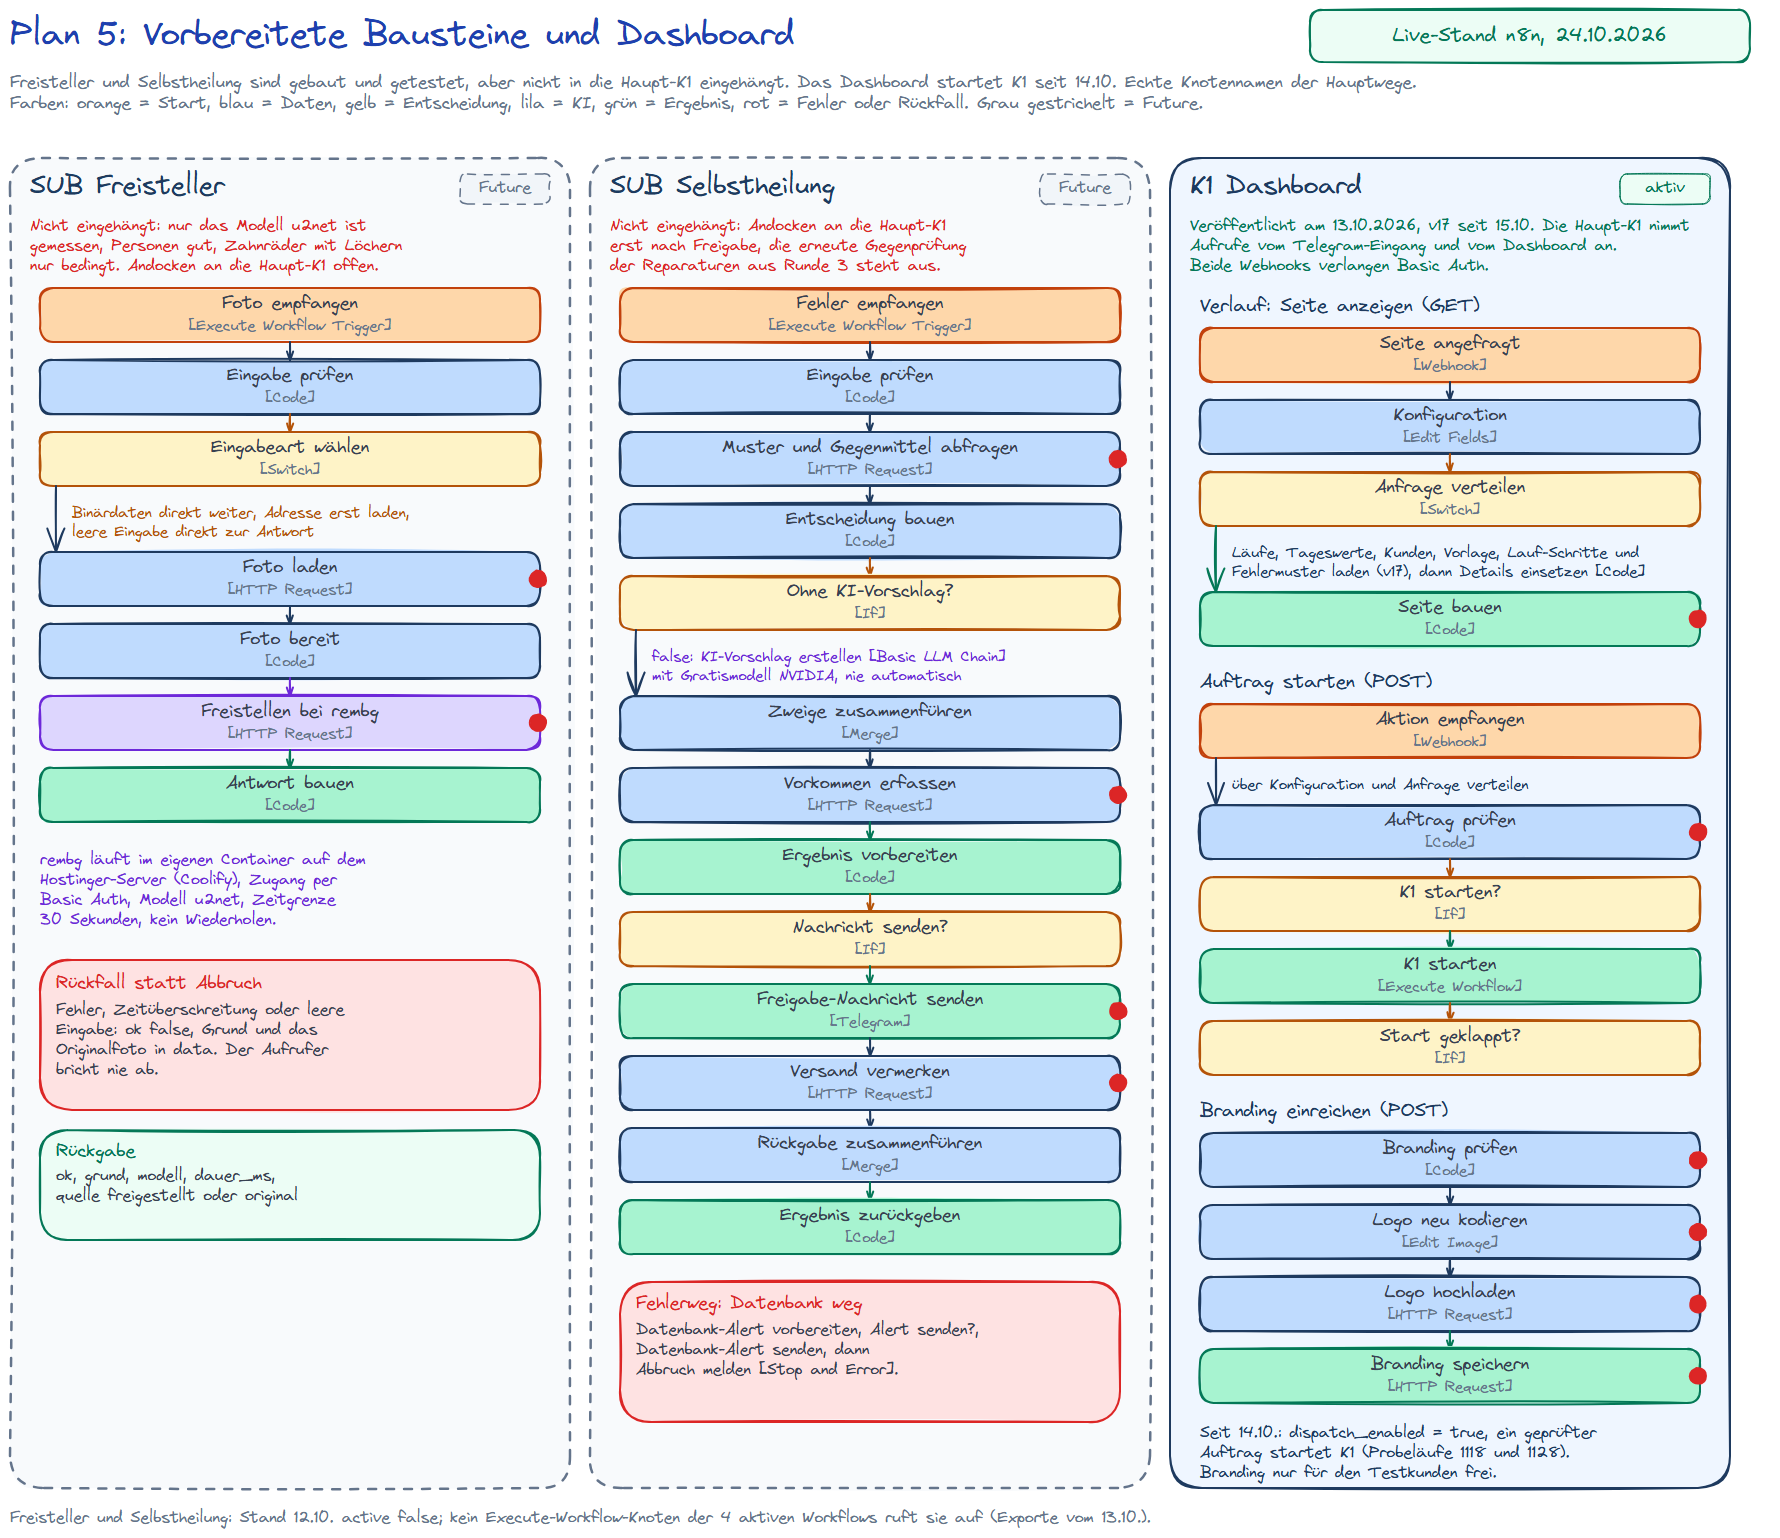
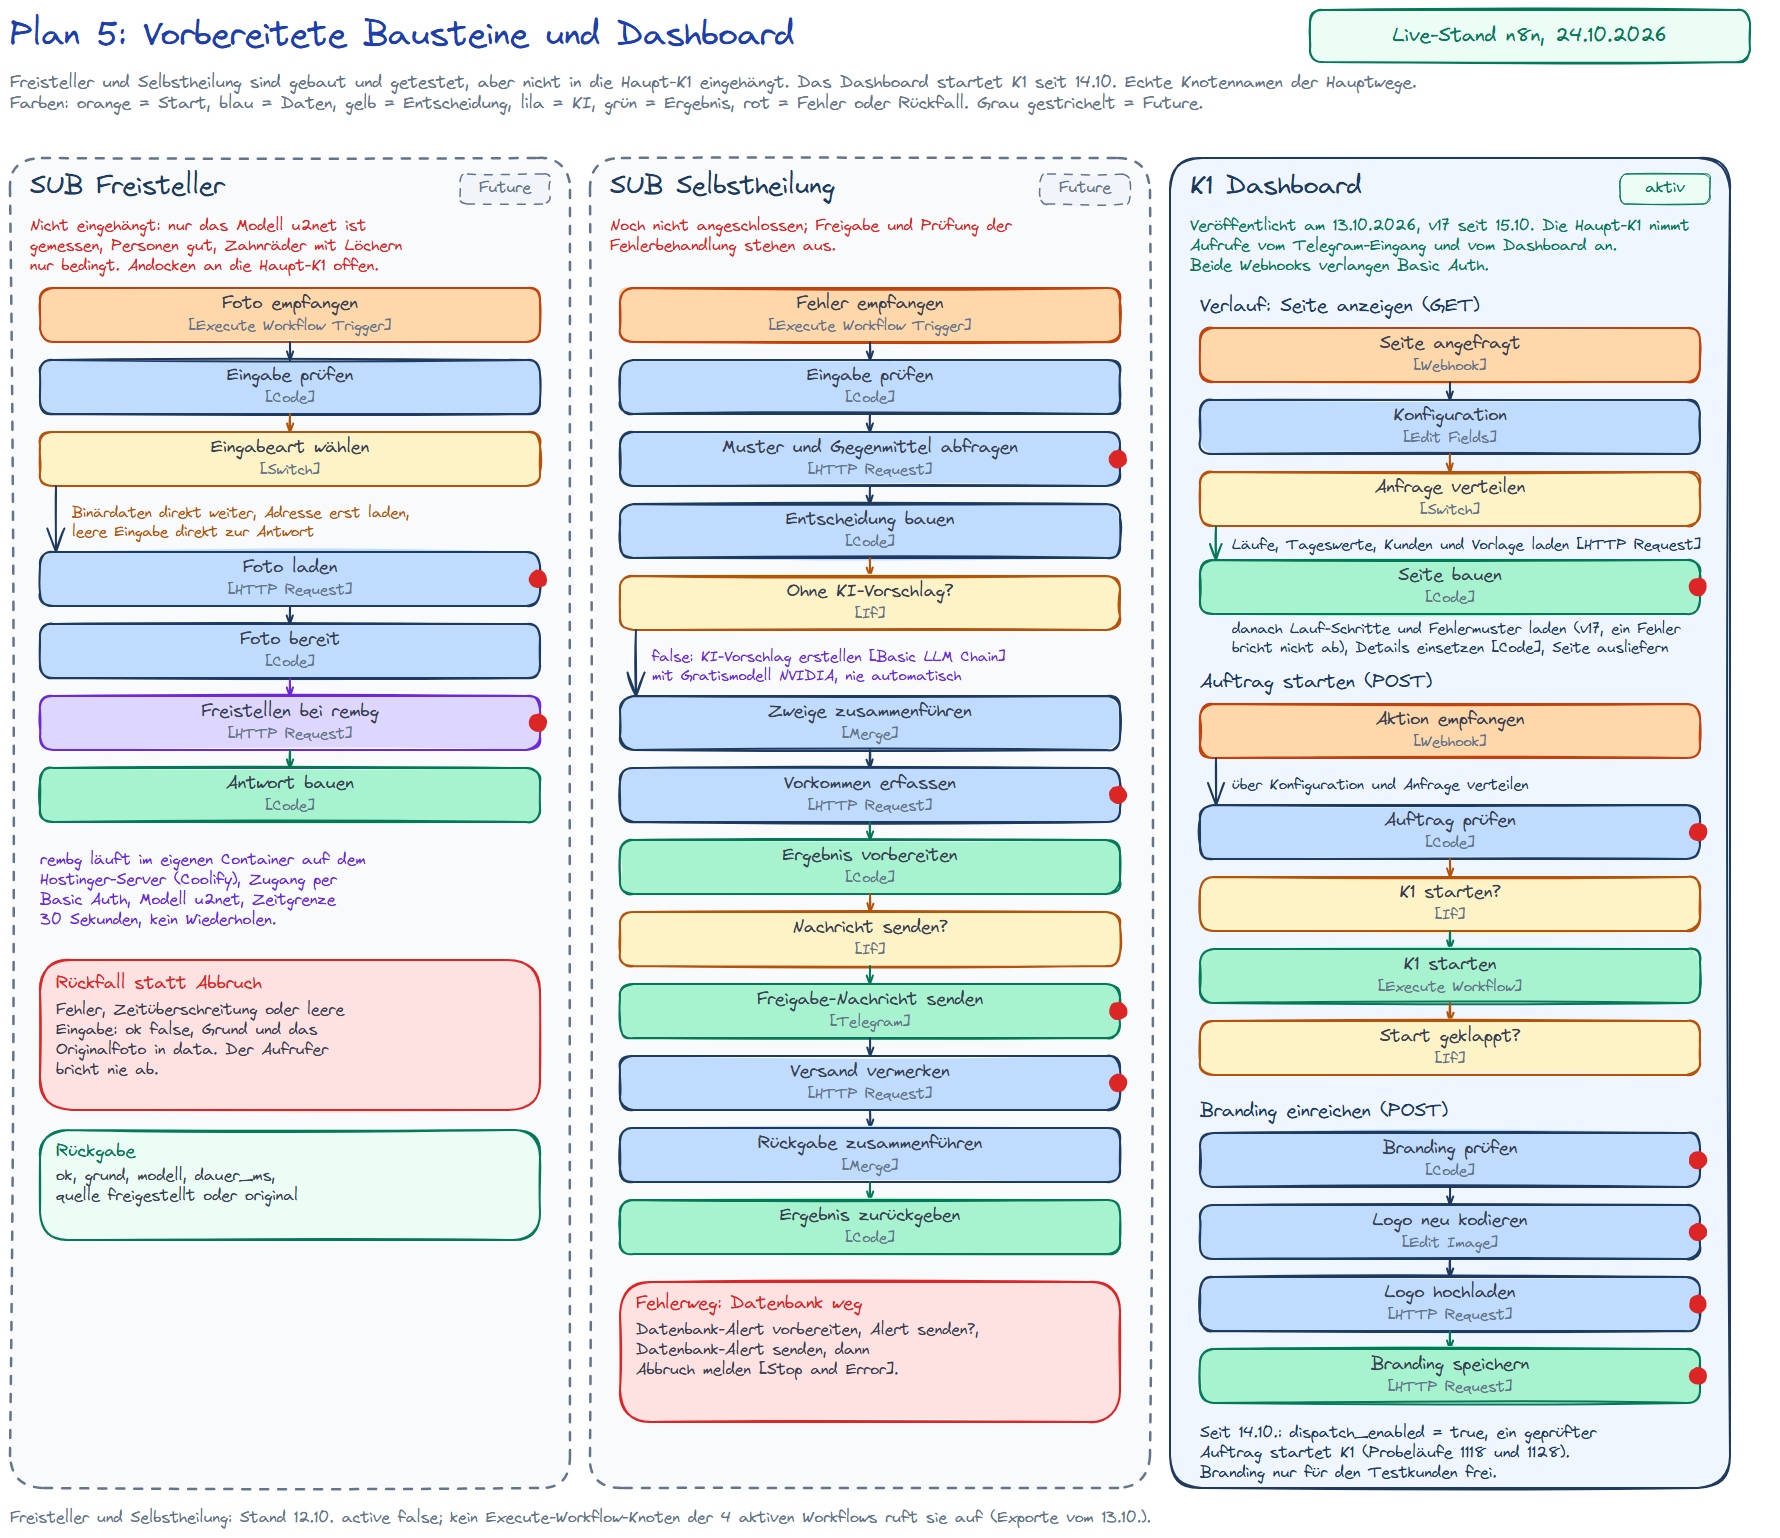
V97 Nachbesserung: Plan 5 in Export-Reihenfolge, Fallback beim Einzelbild genau beschrieben
Plan 5: Lauf-Schritte und Fehlermuster laden folgen auf Seite bauen.
Anleitung 6a, 6e, 6g berichtigt (Einzelbild-Fallback, 4 von 4, v24 veroeffentlicht, Satzbau).

Changed region(s): [[0.6489, 0.3433, 0.9579, 0.4369], [0.3399, 0.1248, 0.5562, 0.1873]]

diff --git a/docs/anleitung/index.html b/docs/anleitung/index.html
@@ -1265,7 +1265,7 @@ figure.foto.codebild.voll img { width: 100%; }
 
   <h3>Layout 4: Karussell nach festem Muster</h3>
   <p>Layout 4 arbeitet mit Übergängen über die Folienkante: Ein Foto, eine Linie und eine Treppe laufen von einer Folie in die nächste, damit das Karussell beim Wischen wie ein Band wirkt. Technisch wird eine breite Leinwand mit allen Folien einmal gebaut, Gotenberg gibt jeden Ausschnitt als eigenes PNG mit 1080 x 1350 aus. Ein Bild über die Kante trägt so auf beiden Seiten dieselben Pixel.</p>
-  <p>Der erste Einbau würfelte bis zu 5 Aufbauten und prüfte sie. In T1 fand er nach 80 Versuchen keinen gültigen Plan, die Vorschau kam im alten Layout (Lauf 905). Seit dem 12.10. baut <code>Layout 4 würfeln [Code]</code> jeden Plan fest nach dem abgenommenen Muster v2: Titel mit gerahmtem Foto über der Kante, Einleitung, Schritte, eine Folie „Jetzt speichern“ mit Grundwechsel, die restlichen Schritte, „Auf einen Blick“ und ein Abschluss mit Kundenlogo und einer Frage. 3 bis 5 Schritte ergeben 8 bis 10 Folien. Liefert das Modell mehr als 5 Schritte, bekommen nur 5 davon eine eigene Folie: Der Text von Schritt 5 wird auf 110 Zeichen gekürzt, von den übrigen Schritten werden nur die Überschriften angehängt („Dazu: …“), ihr Text fehlt auf den Folien. Das ist im Live-Stand vom 24.10.2026 unverändert und gilt als bekannte Grenze. Der Aufbau und die Details gehören zum Layout, Farben, Schrift und Logo kommen aus dem <code>branding_pack</code>. Seit dem 17. bis 19.10.2026 sehen Folie 1, Folie 2 und die Schlussfolie anders aus als hier beschrieben: Folie 1 trägt einen kurzen Aufhänger wie ein Vorschaubild (Fix 5b und 5d), Folie 2 eine eigene Einleitung (Fix 27b), die Schlussfolie eine Frage zum Thema (Fix 28). Einzelheiten unten.</p>
+  <p>Der erste Einbau würfelte bis zu 5 Aufbauten und prüfte sie. In T1 fand er nach 80 Versuchen keinen gültigen Plan, die Vorschau kam im alten Layout (Lauf 905). Seit dem 12.10. baut <code>Layout 4 würfeln [Code]</code> jeden Plan fest nach dem abgenommenen Muster v2: Titel mit gerahmtem Foto über der Kante, Einleitung, Schritte, eine Folie „Jetzt speichern“ mit Grundwechsel, die restlichen Schritte, „Auf einen Blick“ und ein Abschluss mit Kundenlogo und einer Frage. 3 bis 5 Schritte ergeben 8 bis 10 Folien. Liefert das Modell mehr als 5 Schritte, bekommen nur 5 davon eine eigene Folie: Der Text von Schritt 5 wird auf 110 Zeichen gekürzt, von den übrigen Schritten werden nur die Überschriften angehängt („Dazu: …“), ihr Text fehlt auf den Folien. Das ist im Live-Stand vom 24.10.2026 unverändert und gilt als bekannte Grenze. Der Aufbau und die Details gehören zum Layout, Farben, Schrift und Logo kommen aus dem <code>branding_pack</code>. Seit den Änderungen vom 17. bis 19.10.2026 sehen Folie 1, Folie 2 und die Schlussfolie anders aus als hier beschrieben: Folie 1 trägt einen kurzen Aufhänger wie ein Vorschaubild (Fix 5b und 5d), Folie 2 eine eigene Einleitung (Fix 27b), die Schlussfolie eine Frage zum Thema (Fix 28). Einzelheiten unten.</p>
   <ol class="schritte">
     <li><strong><code>Layout 4 prüfen [HTTP Request]</code></strong> rendert bis zu 3 Kandidaten mit gleichem Aufbau und strengeren Textgrenzen im Prüfmodus; <code>Layout 4 Plan wählen [Code]</code> nimmt den ersten ohne Überlauf.</li>
     <li><strong><code>Layout 4 rendern [HTTP Request]</code></strong> erzeugt die Folien, <code>Layout 4 Ergebnis prüfen [Code]</code> kontrolliert Zahl und Größe jedes Bilds.</li>
@@ -1407,7 +1407,7 @@ figure.foto.codebild.voll img { width: 100%; }
     <li><strong><code>Render-Liste bauen [Code]</code></strong> nimmt die Erklärung nur noch aus diesem Feld, nie mehr aus dem Folientext.</li>
     <li><strong><code>Konfiguration und Startzeit [Edit Fields]</code></strong>: <code>prompt_version</code> von <code>k1-p4</code> auf <code>k1-p5</code>.</li>
   </ol>
-  <p><strong>Probelauf 1200</strong> (22.10.2026, Kunde Ordwin, Thema „Angebote mit n8n in 4 Schritten automatisieren“): Status erfolgreich, in Telegram freigegeben, Ersatzmodell nicht gebraucht. Das Modell lieferte 4 von 4 Erklärungen, alle wurden übernommen, jede Station im LinkedIn-Bild trägt ihre Erklärung. Die Länge lag bei 46 bis 62 Zeichen, Regel 16a nennt 45; 3 von 4 lagen darüber, das Bild passte trotzdem ohne Kürzung oder Überlappung.</p>
+  <p><strong>Probelauf 1200</strong> (22.10.2026, Kunde Ordwin, Thema „Angebote mit n8n in 4 Schritten automatisieren“): Status erfolgreich, in Telegram freigegeben, Ersatzmodell nicht gebraucht. Das Modell lieferte 4 von 4 Erklärungen, alle wurden übernommen, jede Station im LinkedIn-Bild trägt ihre Erklärung. Die Länge lag bei 46 bis 62 Zeichen, Regel 16a nennt 45; 4 von 4 lagen darüber (62, 46, 53 und 57 Zeichen), das Bild passte trotzdem ohne Kürzung oder Überlappung.</p>
   <figure class="foto schmal">
     <img src="bilder/v5d-1200-linkedin.png" alt="LinkedIn-Bild aus Lauf 1200 auf dunkelgrünem Grund: Marke Ordwin, Abzeichen In 4 Schritten, Titel Automatisiere Angebote mit n8n in 4 Schritten; Pipeline mit 4 Stationen, jede mit Überschrift und einem ganzen Erklärungssatz, zum Beispiel Visuals werden automatisch generiert und eingebunden; unten Merke-Leiste">
     <figcaption>Abbildung 6a-21: Das LinkedIn-Bild aus Lauf 1200 nach Fix 5g. Jede der 4 Stationen trägt einen ganzen Satz vom Modell, Station 3 lautet jetzt „Visuals werden automatisch generiert und eingebunden.“</figcaption>
@@ -1429,6 +1429,7 @@ figure.foto.codebild.voll img { width: 100%; }
       <tr><td><code>Einzelbild erzeugen [HTTP Request]</code></td><td>Fallback: liefert FLUX nach 3 Versuchen kein Bild oder fehlt die Konto-ID, wird das Einzelbild ein Farbverlauf mit Logo (F4).</td></tr>
     </table>
   </div>
+  <p><strong>Was bei <code>Einzelbild erzeugen</code> tatsächlich passiert</strong> (gelesen im Export K1 v25, Ablauf seither unverändert): Die Notiz im Canvas fasst den Weg verkürzt zusammen. Der Knoten läuft nur, wenn Pixabay kein passendes Foto liefert und eine Konto-ID eingetragen ist. Liefert FLUX ein Bild, steht es groß auf Folie 1. Liefert FLUX nach 3 Versuchen keins oder fehlt die Konto-ID, bekommt Folie 1 stattdessen ein großes Symbol zum Thema (<code>Layout 4 würfeln [Code]</code>), und der Lauf vermerkt F4 im Bildhinweis. Das LinkedIn-Bild hängt davon nicht ab: <code>Render-Liste bauen [Code]</code> baut es als eigene Grafik, als Ablauf, Checkliste oder Zahl. Erst wenn keine dieser Vorlagen passt, greift sein eigener Rückfall, ein Farbverlauf aus den Kundenfarben mit Titel und Logo.</p>
   <figure class="foto breit">
     <img src="bilder/v5d-karte4-fallback.png" alt="Gesamtansicht der Hauptversion K1 im n8n-Editor, Dunkelmodus, Status Published; rot umrahmt die Notizkarte von Phase 04 Gestalten und der Bereich der Phase 03 KI mit den Knoten, die eine Fallback-Notiz tragen">
     <figcaption>Abbildung 6a-22: K1 nach den Notizänderungen vom 24.10.2026 (<code>80d0c810</code>). Rot umrahmt Karte ④ in Phase 04 und Phase 03 KI mit den Fallback-Notizen.</figcaption>
@@ -1856,7 +1857,7 @@ figure.foto.codebild.voll img { width: 100%; }
 
   <h3>Zeitgrenze des Schreibmodells: 120 auf 30 Sekunden (Entwurf)</h3>
   <p>In Lauf 1139 brauchte <code>Content-Paket schreiben [HTTP Request]</code> 125,3 Sekunden statt rund 7 Sekunden in Lauf 1135. Die Rechnung passt auf einen Hänger beim Anbieter: Zeitgrenze 120 s für den ersten Versuch, 2 s Pause, rund 3 s für den zweiten Versuch, der ein normales Ergebnis lieferte. n8n speichert die einzelnen Versuche nicht, der erste Hänger ist also gerechnet, nicht gesehen.</p>
-  <p>Deshalb steht im Entwurf <code>73daaea3</code> die Zeitgrenze dieses Knotens auf 30.000 statt 120.000 Millisekunden, Wiederholung (2 Versuche, 2 s Pause) unverändert. Der Versionsvergleich gegen <code>99e45166</code> zeigt genau diese eine Änderung. <strong>Stand 14.10.2026 abends: Entwurf, nicht veröffentlicht, nicht getestet.</strong> Aktiv ist weiter <code>99e45166</code> mit 120 Sekunden. Erwartet wird, dass ein Hänger künftig nach rund 32 statt 122 Sekunden in den zweiten Versuch geht.</p>
+  <p>Deshalb steht im Entwurf <code>73daaea3</code> die Zeitgrenze dieses Knotens auf 30.000 statt 120.000 Millisekunden, Wiederholung (2 Versuche, 2 s Pause) unverändert. Der Versionsvergleich gegen <code>99e45166</code> zeigt genau diese eine Änderung. <strong>Stand 14.10.2026 abends: Entwurf, nicht veröffentlicht, nicht getestet.</strong> Aktiv ist weiter <code>99e45166</code> mit 120 Sekunden. Erwartet wird, dass ein Hänger künftig nach rund 32 statt 122 Sekunden in den zweiten Versuch geht. Inzwischen mit K1 v24 veröffentlicht; im Endstand unverändert.</p>
 
   <div class="falle"><span class="gtag">Bekannte Grenzen aus den Läufen vom 14.10.</span>
     <p><strong>Bildversand an Telegram:</strong> Schon 1 Zeitüberschreitung beim Senden der Vorschau bricht den ganzen Lauf ab (F8), die Freigabe-Nachricht kommt dann nicht. Eine automatische Wiederholung ist an diesem Knoten nicht eingestellt, und sie würde hier auch nicht helfen: Bei „Gateway Timeout“ kann das Bild trotzdem angekommen sein, ein zweiter Versuch würde es dann doppelt senden.</p>
@@ -2658,6 +2659,7 @@ figure.foto.codebild.voll img { width: 100%; }
       <tr><td>1 Ziel und Ablauf</td><td>Bild ersetzt</td><td>Plan 1 im Stand vom 24.10.2026: K1 mit 114 Knoten, Dashboard mit 56 Knoten (Leitstand v17), Pfeil vom Dashboard zu K1 durchgezogen, weil das Dashboard K1 seit dem 14.10. startet; statt der Adresse der Nextcloud steht „eigene Instanz“</td></tr>
       <tr><td>6a Neu in der Hauptversion</td><td>ergänzt</td><td>aktive Version jetzt <code>80d0c810</code>; Versionstabelle um <code>4a2e6a4d</code> (Fix 5g), <code>e0576fbd</code> (Karte ④) und <code>80d0c810</code> (Fallback-Notizen); Abschnitte „Fix 5g“ und „Notizen vom 24.10.2026“ mit 2 neuen Abbildungen 6a-21 und 6a-22; Plan 2 im Stand vom 24.10. mit dem Filter-Knoten und den Fallback-Notizen; die bekannten Grenzen <code>prompt_version k1-p4</code> und „Station 3 mit Listenstück“ sind durch Fix 5g erledigt; Absatz zur KI-Kennzeichnung um die berichtigte Karte ④ ergänzt</td></tr>
       <tr><td>6e Future</td><td>Bild ersetzt</td><td>Plan 5 im Stand vom 24.10.2026: Dashboard mit <code>dispatch_enabled = true</code> und den Ladeknoten von v17 statt Probebetrieb</td></tr>
+      <tr><td>6a, 6e, 6g nach Gegenprüfung</td><td>berichtigt</td><td>Plan 5: Lauf-Schritte und Fehlermuster laden folgen wie im Export auf <code>Seite bauen</code>; tatsächlicher Weg bei <code>Einzelbild erzeugen</code> unter der Fallback-Tabelle; Lauf 1200 mit 4 von 4 Erklärungen über 45 Zeichen; Hinweis, dass die 30 Sekunden seit K1 v24 gelten</td></tr>
       <tr><td>14 Änderungen, 15 Quellen</td><td>ergänzt</td><td>dieser Abschnitt; Belege zum Endstand vom 24.10.2026</td></tr>
     </table>
   </div>

diff --git a/CHANGELOG.md b/CHANGELOG.md
@@ -7,6 +7,7 @@ Die Einträge V01 bis V80 stammen aus den Abgaben vom 12.10. und 14.10.2026. Sie
 ## Sa 24.10.2026
 
 - **V97, 24.10., Doku auf Endstand.** Architektur-Diagramm (`docs/architektur.excalidraw`, `docs/architektur.png`) und `docs/architektur.md` zeigen K1 mit 114 Knoten, Leitstand v17 mit 56 Knoten, Vorschau nur mit Folien, LinkedIn-Bild als Diagramm und die Fallback-Notizen an den 5 KI-Knoten. Die ausführliche Anleitung unter `docs/anleitung/` ist auf den Endstand nachgezogen: Abschnitt 6a mit den Änderungen vom 17. bis 24.10., Pläne 1, 2 und 5 neu gezeichnet, 15 neue Abbildungen, jetzt 115. Stand-Sätze im README angepasst. Auf K1 wirken am 24.10. nur Notizen (Karte ④ berichtigt, Fallback-Notiz an `Virale Posts Sonar`, `Recherche Sonar`, `Content-Paket schreiben`, `Ersatzpaket schreiben`, `Einzelbild erzeugen`, aktive Version `80d0c810`); Ablauf, Knoten und Verbindungen sind gleich K1 v25; der Export `workflows/k1-content-generator.json` enthält diese Notizen noch nicht. Das Bildschirmfoto `docs/leitstand.png` zeigt weiter den Stand vom 14.10. (v16). Grund: Diagramm und Anleitung zeigten noch den Stand vom 14.10. (`99e45166`, 113 Knoten).
+  Nachbesserung nach Gegenprüfung: Plan 5 (`docs/anleitung/bilder/v4-plan5.png`) zeigt die Leitstand-Schritte in der Reihenfolge des Exports (Lauf-Schritte und Fehlermuster laden nach `Seite bauen`), die Anleitung beschreibt den tatsächlichen Weg bei `Einzelbild erzeugen` (Folie 1 ohne FLUX mit Themensymbol, LinkedIn-Bild mit eigenem Rückfall) und berichtigt 3 kleine Angaben (4 von 4 Erklärungen über 45 Zeichen, 30 Sekunden seit K1 v24 veröffentlicht, Satzbau 17. bis 19.10.).
 
 ## 17. bis 22.10.2026: Fixes nach den Probeläufen
 
